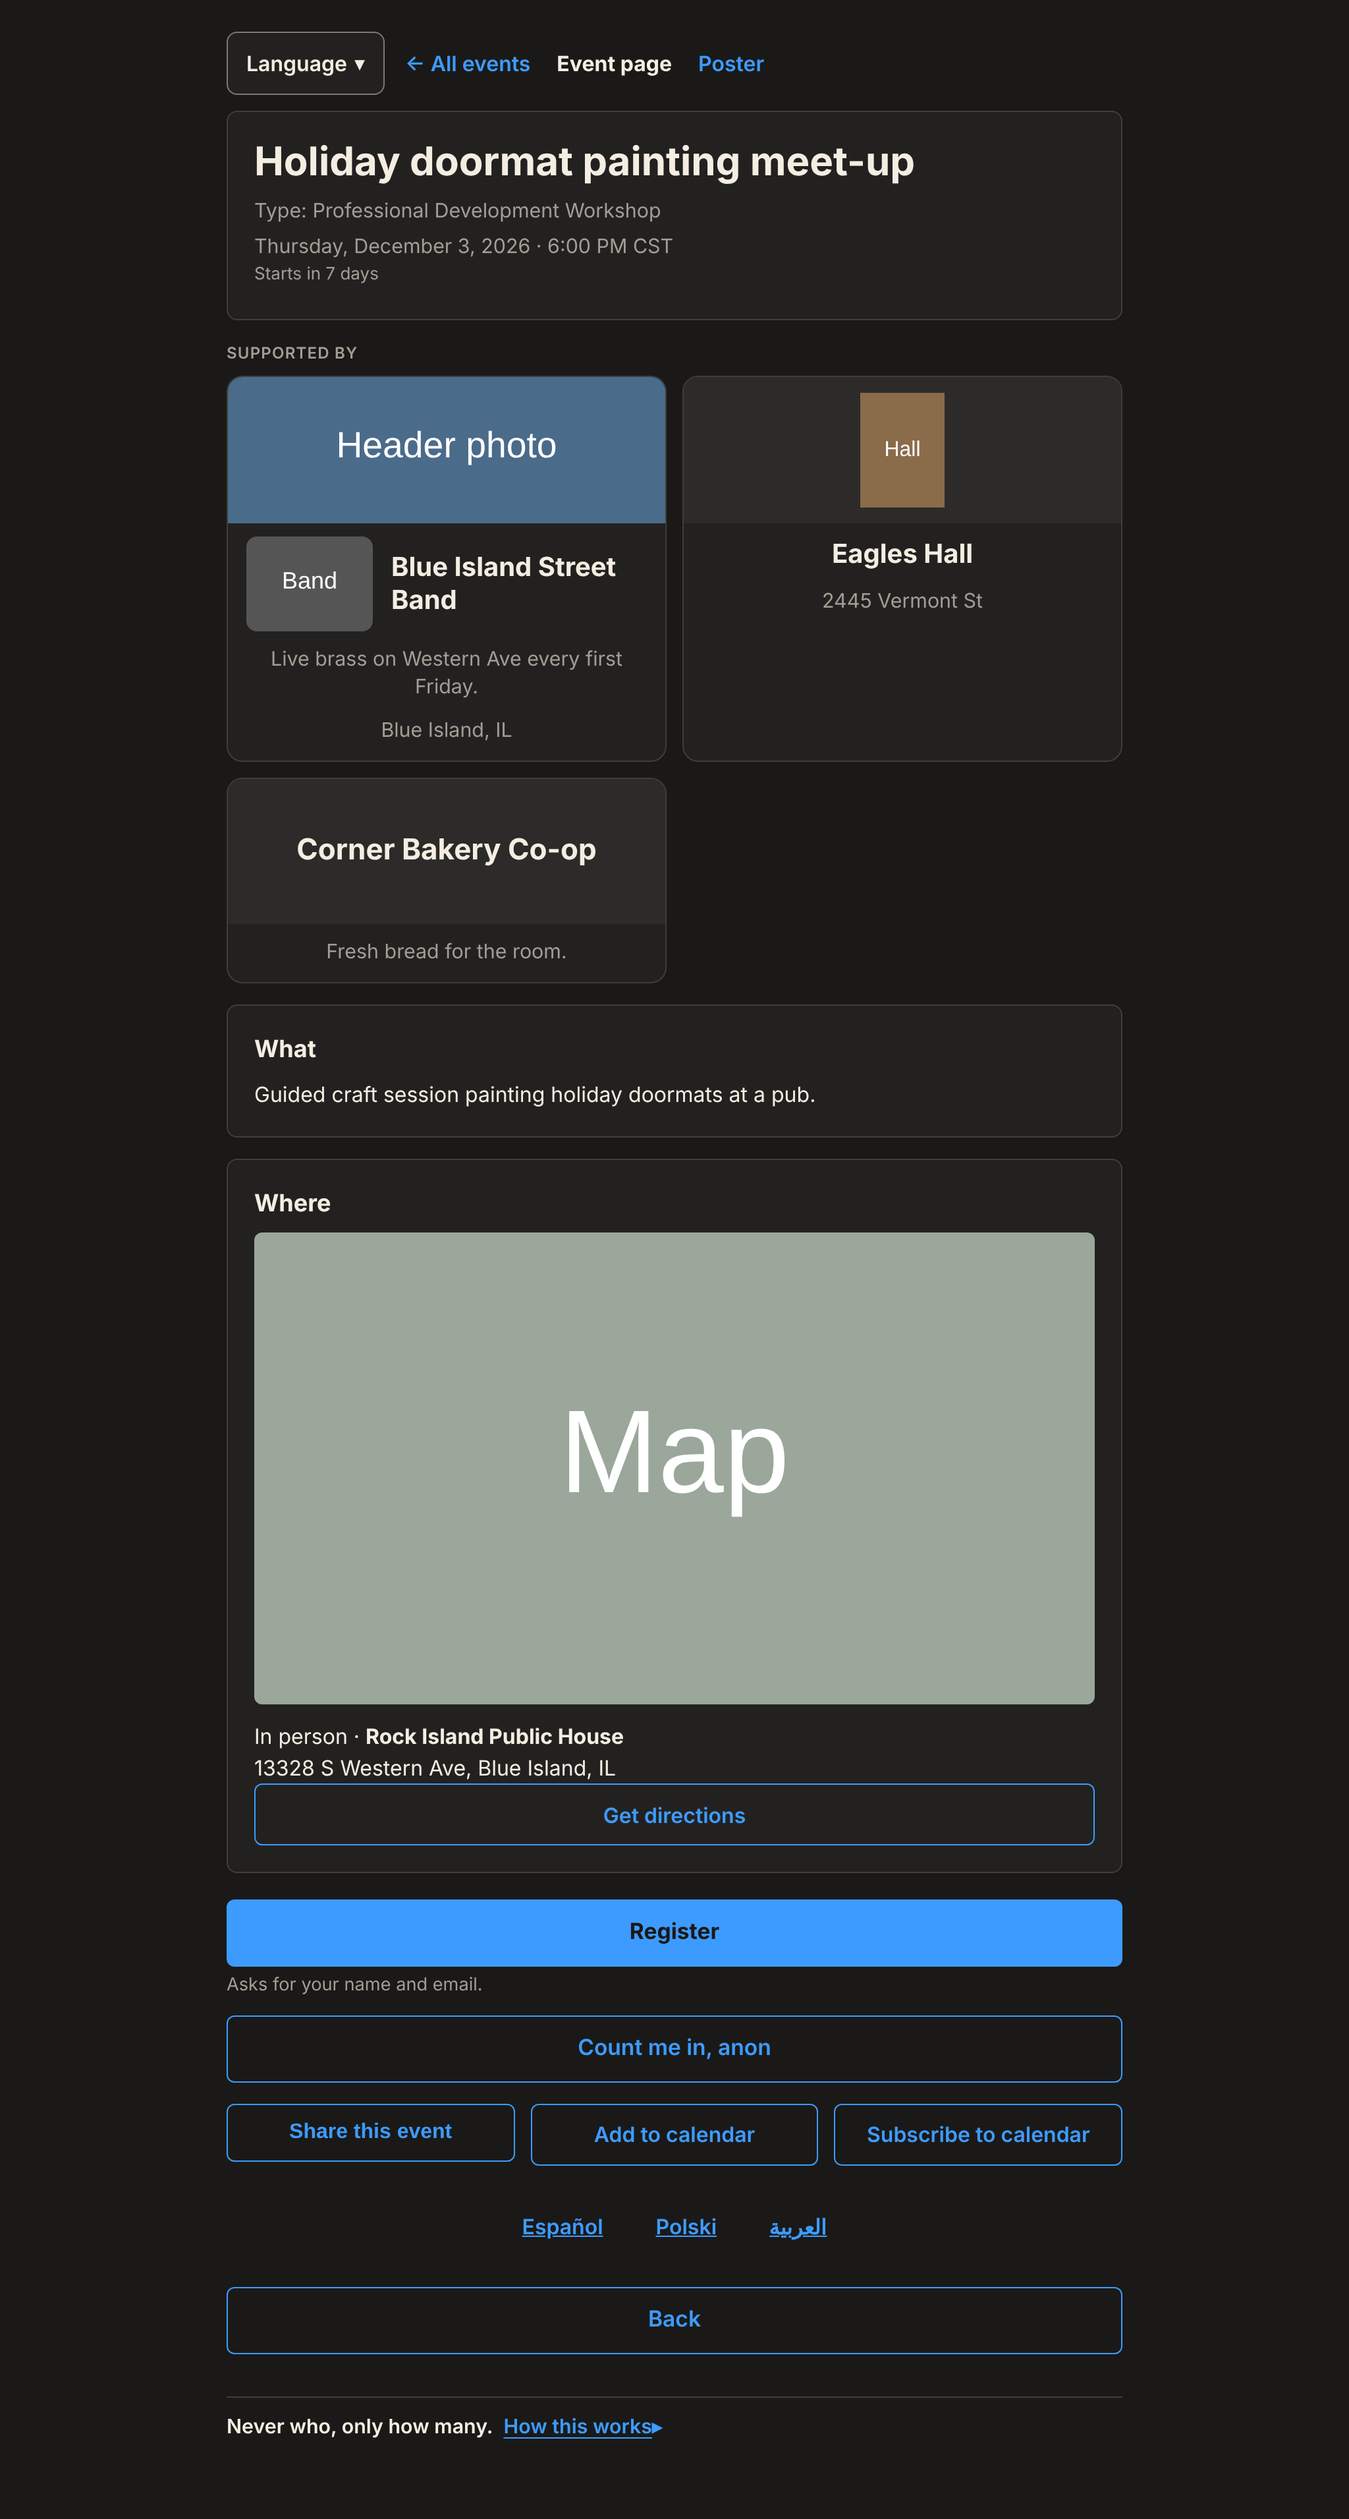
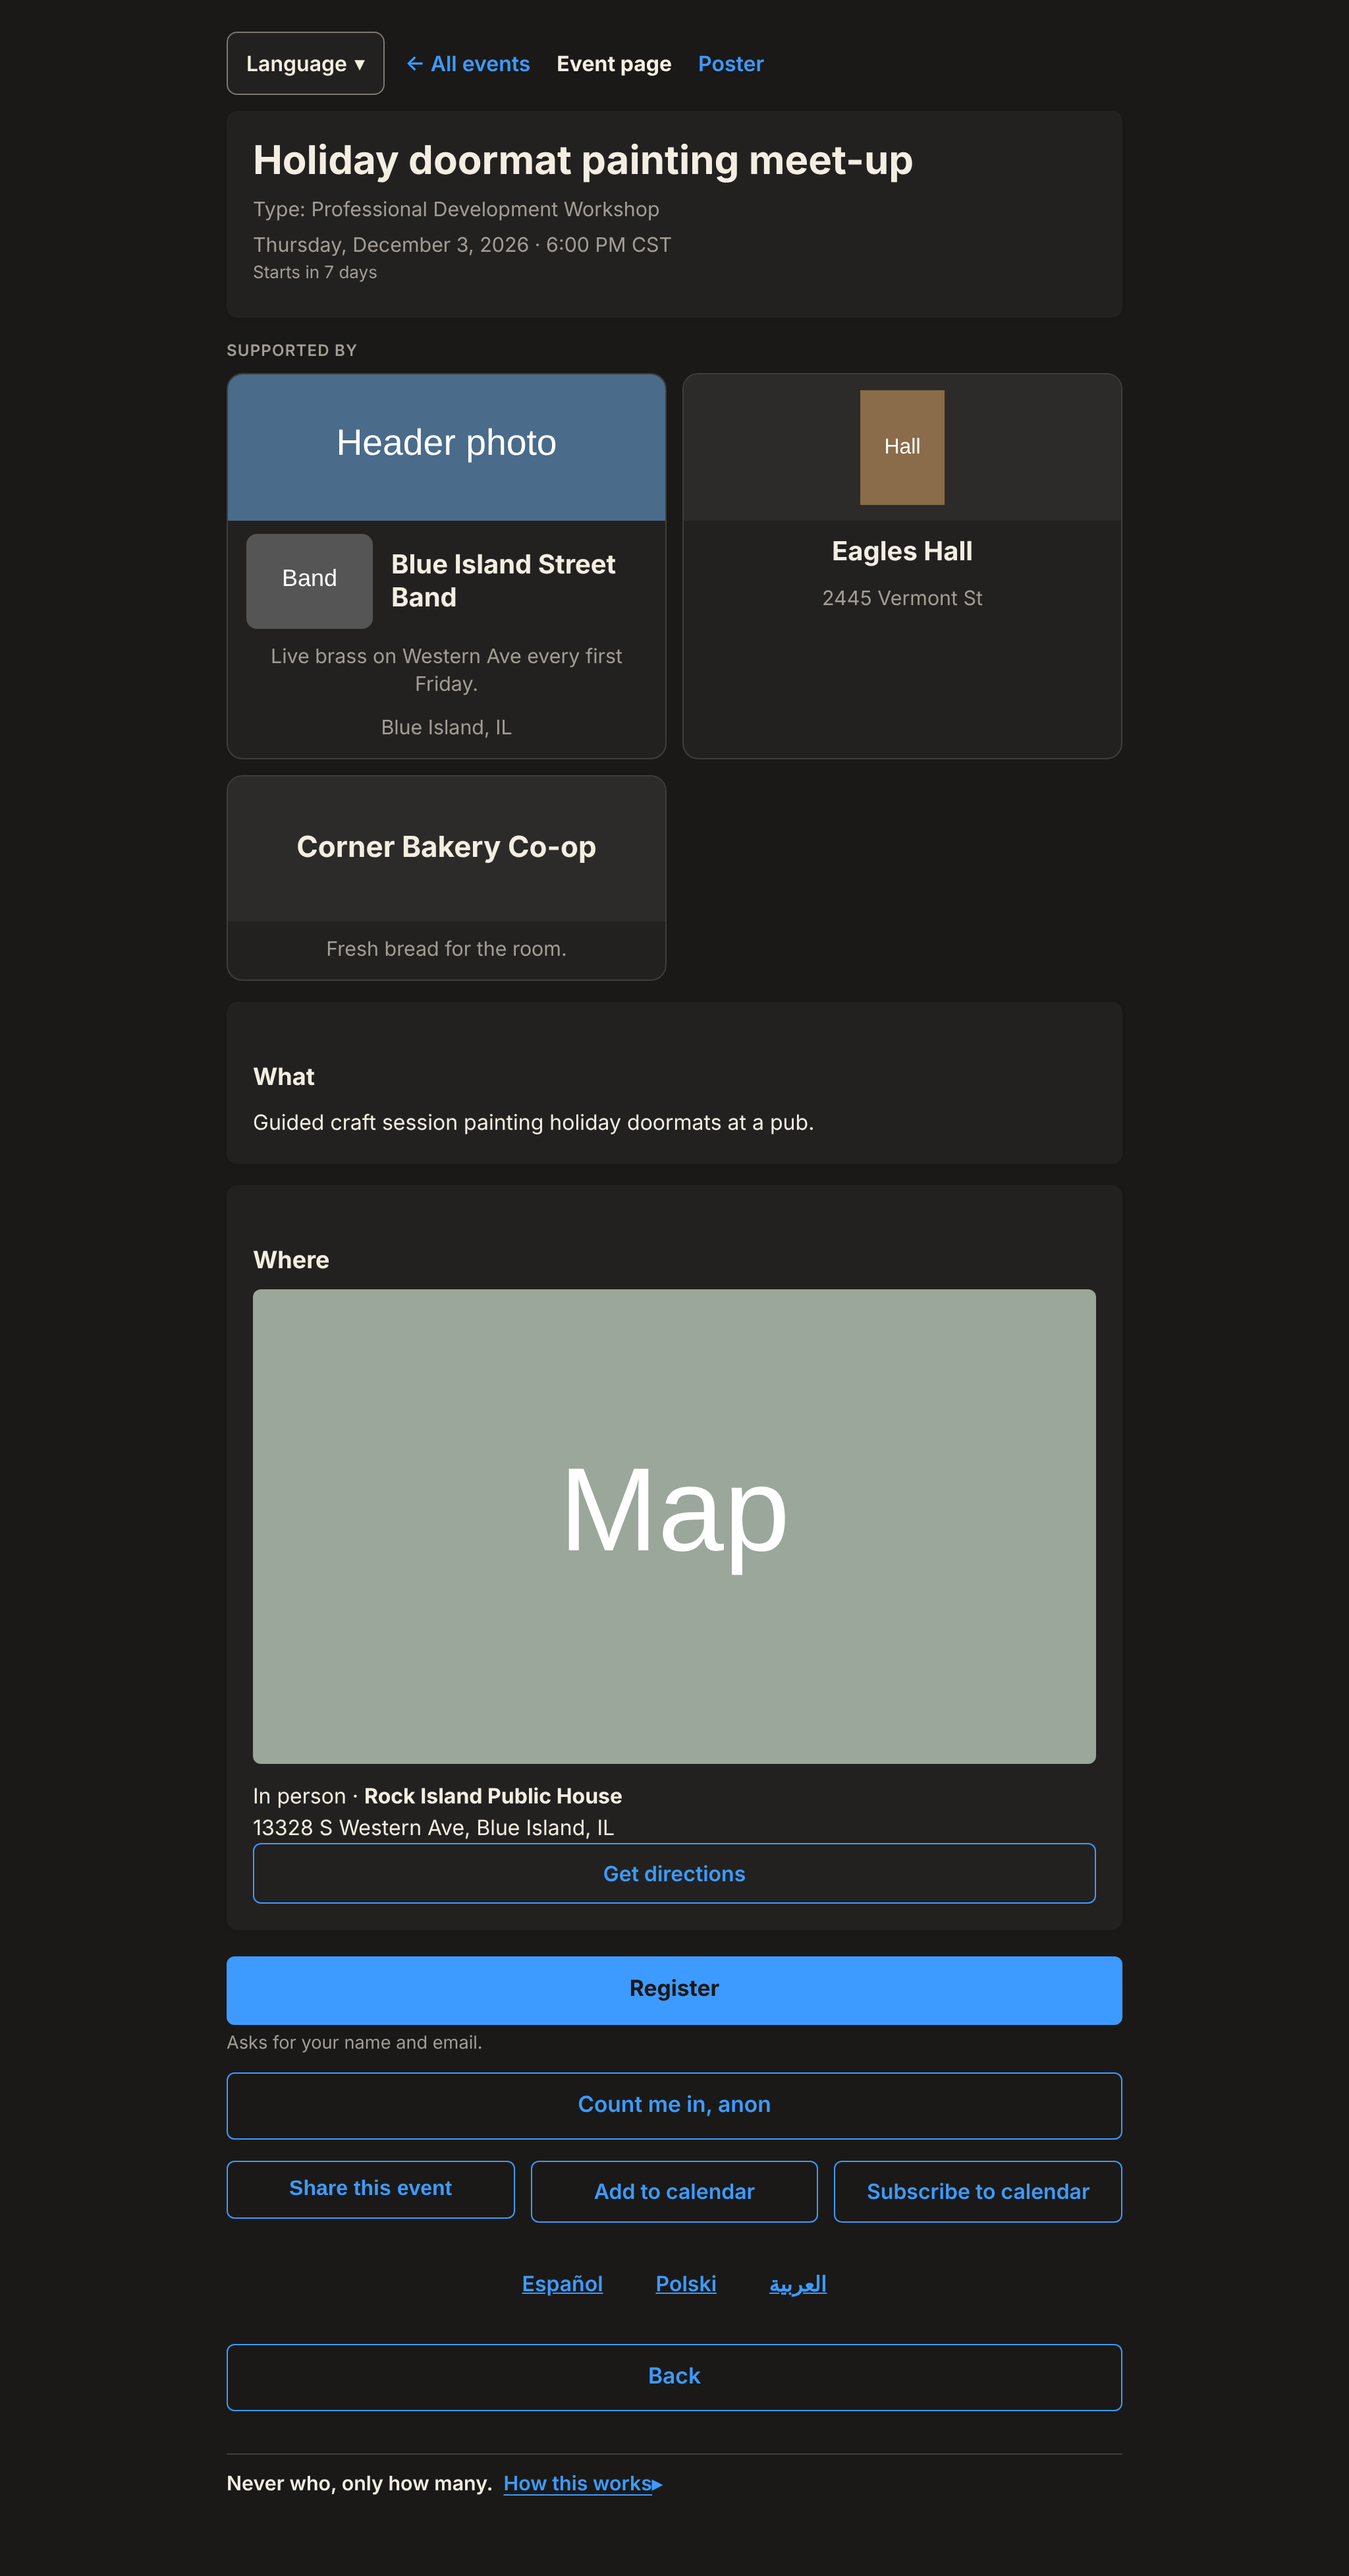
Event page cards: keep the page's own CSS within the design-check budget
Drop the card border and heading tweaks, tighten the header meta spacing
instead, and lower the recorded own-stylesheet baseline to lock it in.

Claude-Session: https://claude.ai/code/session_0141doGcqgNYVqC28mkUP45c

diff --git a/workers/oursharedevents/src/handlers/pages.ts b/workers/oursharedevents/src/handlers/pages.ts
@@ -1529,12 +1529,8 @@ ${buildOgMeta({ lang, title, description: whatShort, url: esc(shareUrl), twitter
     .ose-skip:focus { inset-inline-start: 1rem; top: 1rem; background: var(--ose-accent); color: var(--on-accent); padding: 0.5rem 1rem; border-radius: 4px; }
     h1 { font-size: 1.875rem; margin: 0 0 0.5rem; line-height: 1.2; }
     h2 { font-size: 1.125rem; margin: 1.5rem 0 0.5rem; color: var(--ose-text); }
-    .ose-meta { color: var(--ose-muted); font-size: 0.95rem; margin-bottom: 1.5rem; }
-    .ose-card { background: var(--ose-card); border: 1px solid var(--border); border-radius: 8px; padding: 1.25rem; margin-bottom: 1rem; box-shadow: 0 1px 3px rgba(0,0,0,0.06); }
-    /* Owner 2026-11-26: the page reads as cards, like the rest of the platform.
-       A card's first heading sits at its top edge; the header card has no trailing gap. */
-    .ose-card > h2:first-child { margin-top: 0; }
-    .ose-hero .ose-meta { margin-bottom: 0.25rem; }
+    .ose-meta { color: var(--ose-muted); font-size: 0.95rem; margin-bottom: 4px; }
+    .ose-card { background: var(--ose-card); border-radius: 8px; padding: 1.25rem; margin-bottom: 1rem; box-shadow: 0 1px 3px rgba(0,0,0,0.06); }
     .ose-venue-map { width: 100%; max-width: 100%; height: auto; border-radius: 6px; display: block; margin-bottom: 0.75rem; }
     .ose-geo-link { color: var(--ose-accent); text-decoration: none; font-weight: 500; display: inline-flex; align-items: center; min-height: 44px; }
     .ose-geo-link:hover { text-decoration: underline; }
@@ -1566,7 +1562,7 @@ ${SPONSOR_LIST_CSS}
       : renderEventTopbar(nav, lang, eventPagePath(row.id, row.slug), opts?.pageQuery, nonce);
   })()}
   <main id="main" role="main" aria-labelledby="event-title" data-testid="event-main">
-    <header class="ose-card ose-hero" data-testid="event-header">
+    <header class="ose-card" data-testid="event-header">
       <h1 id="event-title" data-testid="event-title">${isolateTyped(lang, title)}</h1>
       ${renderEventTypeMeta(row, 'event-type', lang)}
       ${startHuman ? `<p class="ose-meta" data-testid="event-when">${esc(startHuman)}${countdown.html}</p>${countdown.script}` : ''}
@@ -1743,11 +1739,7 @@ ${buildSearchMeta(row, shareUrl)}
     @keyframes ose-pulse { 0%, 100% { opacity: 1; } 50% { opacity: 0.35; } }
     h1 { font-size: 1.875rem; margin: 0 0 0.5rem; line-height: 1.2; }
     h2 { font-size: 1.125rem; margin: 1.5rem 0 0.5rem; color: var(--ose-text); }
-    .ose-card { background: var(--ose-card); border: 1px solid var(--border); border-radius: 8px; padding: 1.25rem; margin-bottom: 1rem; box-shadow: 0 1px 3px rgba(0,0,0,0.06); }
-    /* Owner 2026-11-26: the page reads as cards, like the rest of the platform.
-       A card's first heading sits at its top edge; the header card has no trailing gap. */
-    .ose-card > h2:first-child { margin-top: 0; }
-    .ose-hero .ose-meta { margin-bottom: 0.25rem; }
+    .ose-card { background: var(--ose-card); border-radius: 8px; padding: 1.25rem; margin-bottom: 1rem; box-shadow: 0 1px 3px rgba(0,0,0,0.06); }
     .ose-venue-map { width: 100%; max-width: 100%; height: auto; border-radius: 6px; display: block; margin-bottom: 0.75rem; }
     .ose-geo-link { color: var(--ose-accent); text-decoration: none; font-weight: 500; display: inline-flex; align-items: center; min-height: 44px; }
     .ose-geo-link:hover { text-decoration: underline; }
@@ -1780,7 +1772,7 @@ ${SPONSOR_LIST_CSS}
     nonce
   )}
   <main id="main" role="main" aria-labelledby="event-title" data-testid="event-main-live">
-    <header class="ose-card ose-hero" data-testid="event-header-live">
+    <header class="ose-card" data-testid="event-header-live">
       <span class="ose-live-badge" data-testid="event-live-badge" aria-label="${msg(lang, 'live.badgeLabel')}">
         <span class="ose-live-dot" aria-hidden="true"></span>${msg(lang, 'live.badge')}
       </span>
@@ -2045,7 +2037,7 @@ ${buildSearchMeta(row, shareUrl)}
     .ose-phase-chip { display: inline-block; font-size: 0.75rem; font-weight: 600; letter-spacing: 0.04em; text-transform: uppercase; color: var(--ose-muted); background: var(--ose-card); border-radius: 999px; padding: 4px 12px; margin-bottom: 0.75rem; }
     h1 { font-size: 1.6rem; margin: 0 0 0.25rem; }
     .ose-when { color: var(--ose-muted); margin: 0 0 1.25rem; }
-    .ose-card { background: var(--ose-card); border: 1px solid var(--border); border-radius: 8px; padding: 1rem 1.25rem; margin: 0 0 1rem; box-shadow: 0 1px 3px rgba(0,0,0,0.06); }
+    .ose-card { background: var(--ose-card); border-radius: 8px; padding: 1rem 1.25rem; margin: 0 0 1rem; box-shadow: 0 1px 3px rgba(0,0,0,0.06); }
     .ose-card h2 { font-size: 1rem; margin: 0 0 0.5rem; }
     .ose-card p { margin: 0 0 0.5rem; }
     .ose-recap-row { margin: 0 0 0.6rem; }
